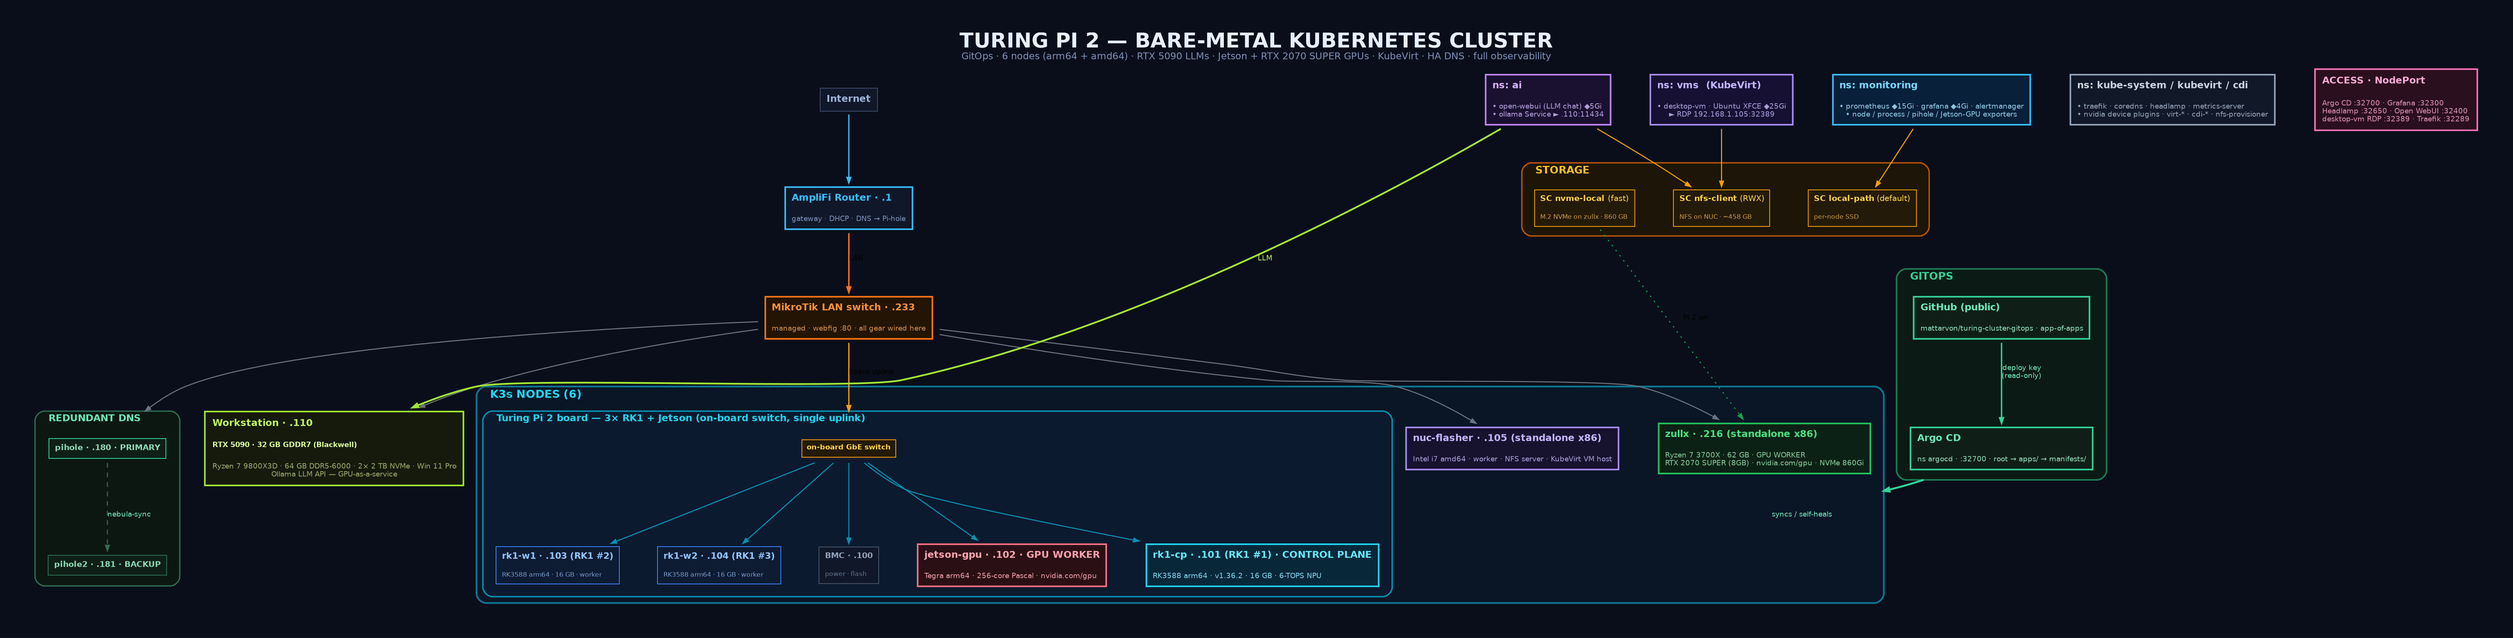
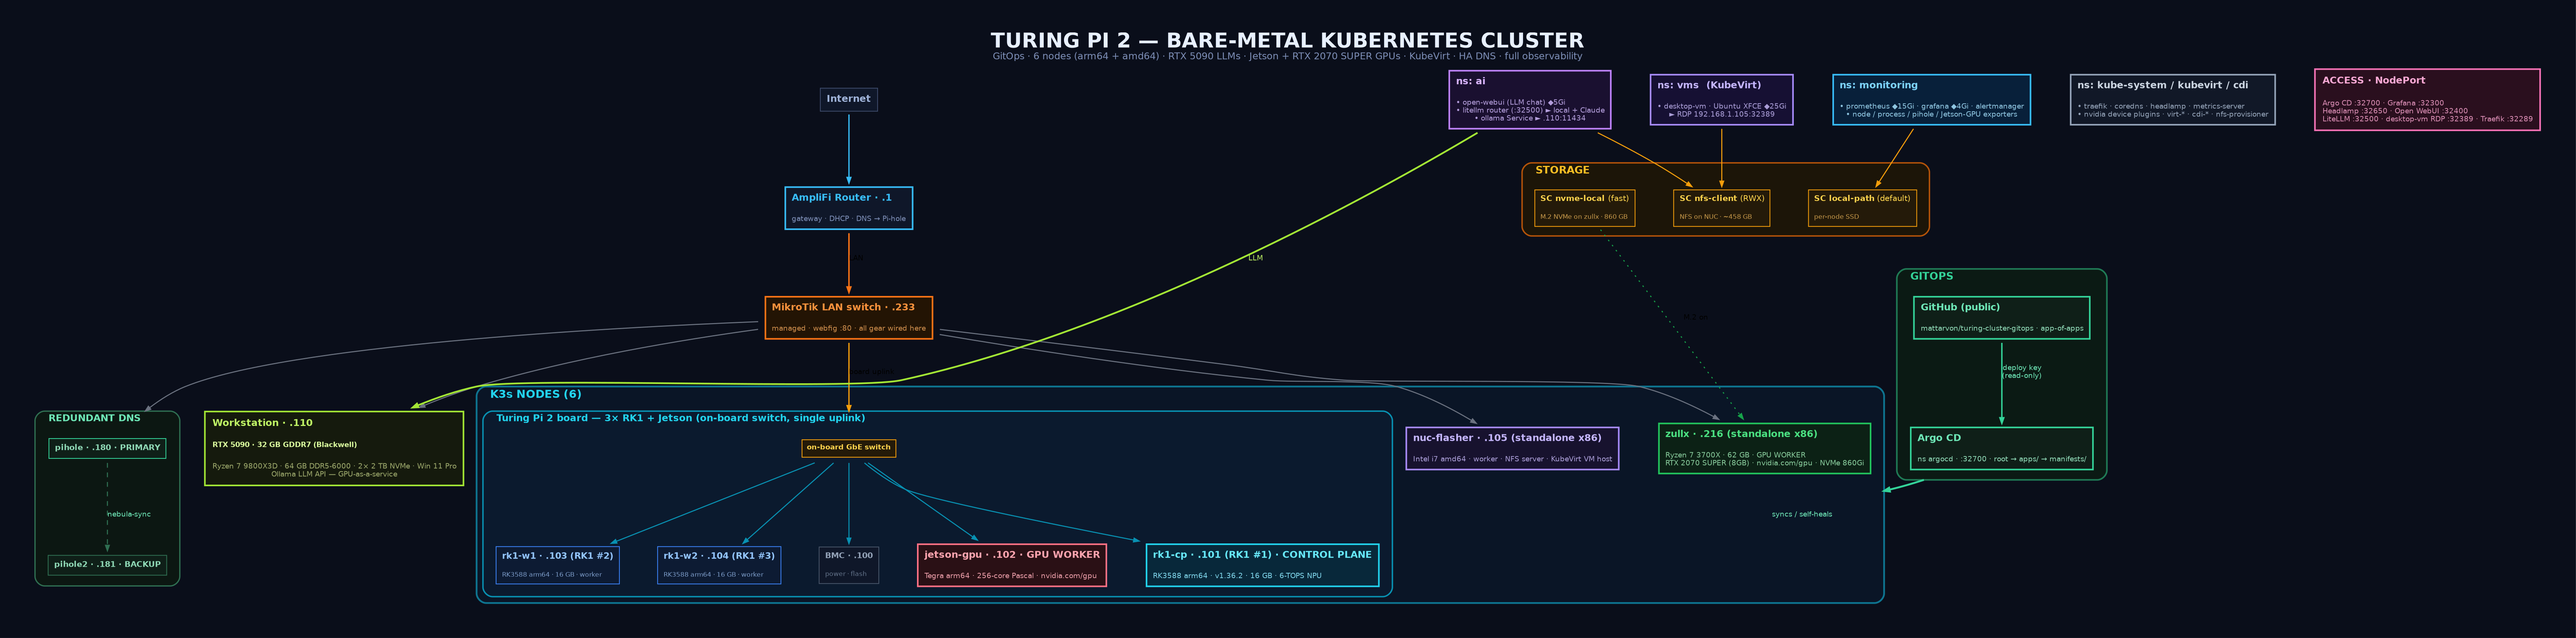
docs: reflect LiteLLM router in topology, README, and ARCHITECTURE
Adds litellm to the ns:ai box + ACCESS ports (:32500) in the topology, the
managed-apps list, access tables, and the platform stack.

diff --git a/docs/ARCHITECTURE.md b/docs/ARCHITECTURE.md
@@ -63,7 +63,7 @@ on-board Gigabit switch with a single RJ45 uplink; the four modules share it.
 |-----------|-----------|-------|
 | **argocd** | argocd-server, repo-server, application-controller (STS), applicationset-controller, redis, dex, notifications | GitOps control plane — see §4 |
 | **monitoring** | prometheus (STS), grafana, alertmanager (STS), kube-state-metrics, kube-prometheus-operator, pihole-exporter, node-exporter (DS), process-exporter (DS) | kube-prometheus-stack 88.1.3 + tegrastats-exporter (systemd on Jetson) |
-| **ai** | open-webui (Deploy, on NUC) + selector-less `ollama` Service/Endpoints → .110 | LLM chat backed by the RTX 5090 |
+| **ai** | open-webui (Deploy, on NUC) + selector-less `ollama` Service → .110 + **litellm** router (Deploy, on zullx) | LLM chat; LiteLLM routes to local Ollama + Anthropic Claude (one endpoint, NodePort 32500) |
 | **vms** | desktop-vm (KubeVirt VMI, on NUC) | Ubuntu XFCE desktop over RDP |
 | **kubevirt** | virt-operator, virt-api, virt-controller, virt-exportproxy, virt-template-*, virt-handler (DS) | VM runtime; virt-handler excludes the Jetson (no /dev/kvm) |
 | **cdi** | cdi-operator, cdi-apiserver, cdi-deployment, cdi-uploadproxy | disk image import for VMs |
@@ -81,7 +81,8 @@ traefik + traefik-crd (k3s built-in 40.1.x).
 - **Flow:** `bootstrap/root.yaml` (watches `apps/`, non-recursive) → `apps/*.yaml` (Argo
   Applications) → `manifests/<app>/` (raw K8s YAML). `staged/` = declared-but-not-synced backlog.
 - **Under management now:** `gpu-device-plugin` (Jetson DaemonSet), `ollama-endpoint` (ai Service),
-  `gpu-device-plugin-x86` (zullx NVIDIA plugin + RuntimeClass), `nvme-storage` (zullx `nvme-local` SC + PV).
+  `gpu-device-plugin-x86` (zullx NVIDIA plugin + RuntimeClass), `nvme-storage` (zullx `nvme-local` SC + PV),
+  `litellm` (LLM router → local Ollama + Anthropic Claude; keys in out-of-band Secret, not in git).
 - **Adoption backlog** (`staged/`): monitoring, nfs-provisioner, KubeVirt/CDI, open-webui,
   desktop-vm, pihole-exporter, tegrastats-exporter.
 
@@ -143,6 +144,7 @@ built-in). Services are exposed via **NodePort** (reachable on any node IP, e.g.
 | Grafana | 32300 |
 | Headlamp | 32650 |
 | Open WebUI | 32400 |
+| LiteLLM (LLM router) | 32500 |
 | desktop-vm (RDP) | 32389 |
 | Traefik ingress | 32289 (web) / 30145 (websecure) |
 

diff --git a/README.md b/README.md
@@ -71,7 +71,7 @@ switch (single RJ45 uplink), and a **BMC** (baseboard management controller) for
 | **Ingress** | Traefik (k3s built-in) + NodePort services |
 | **Storage** | local-path (per-node SSD) + `nfs-client` RWX (NFS from the NUC, ~458 GB) |
 | **GPU scheduling** | `nvidia.com/gpu` — squat generic-device-plugin (Jetson) + official NVIDIA device plugin (zullx, RTX 2070 SUPER) |
-| **AI / LLM** | Ollama on the RTX 5090 + Open WebUI (ns `ai`) |
+| **AI / LLM** | Ollama on the RTX 5090 + Open WebUI + **LiteLLM router** (local + Anthropic Claude in one endpoint) (ns `ai`) |
 | **Virtualization** | KubeVirt + CDI — full VMs (ns `kubevirt`/`cdi`/`vms`) |
 | **DNS** | Pi-hole v6 ×2 (HA, nebula-sync) |
 | **Observability** | kube-prometheus-stack + node/process/Pi-hole/Jetson-GPU exporters |
@@ -86,7 +86,8 @@ Reachable on any node IP (e.g. `.101`); remotely via the Tailscale subnet router
 | Endpoint | Address | What |
 |----------|---------|------|
 | **KubeVirt desktop VM** | **`192.168.1.105:32389`** (RDP) | Full Ubuntu XFCE desktop VM (ns `vms`) |
-| Open WebUI | `192.168.1.101:32400` | LLM chat, backed by the RTX 5090 |
+| Open WebUI | `192.168.1.101:32400` | LLM chat — routes to local + Claude via LiteLLM |
+| LiteLLM (LLM router) | `192.168.1.101:32500` | One OpenAI endpoint → local Ollama + Anthropic Claude |
 | Grafana | `192.168.1.101:32300` | Metrics dashboards |
 | Argo CD | `192.168.1.101:32700` | GitOps UI |
 | Headlamp | `192.168.1.101:32650` | Kubernetes UI |
